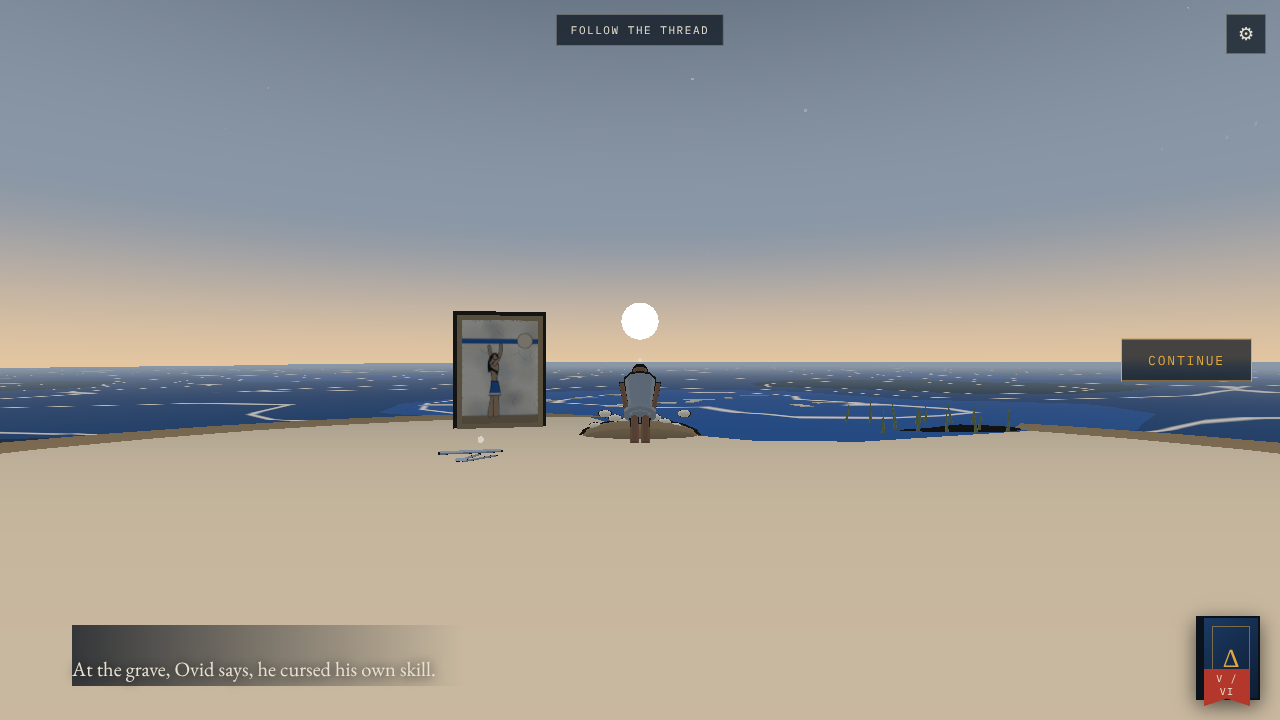
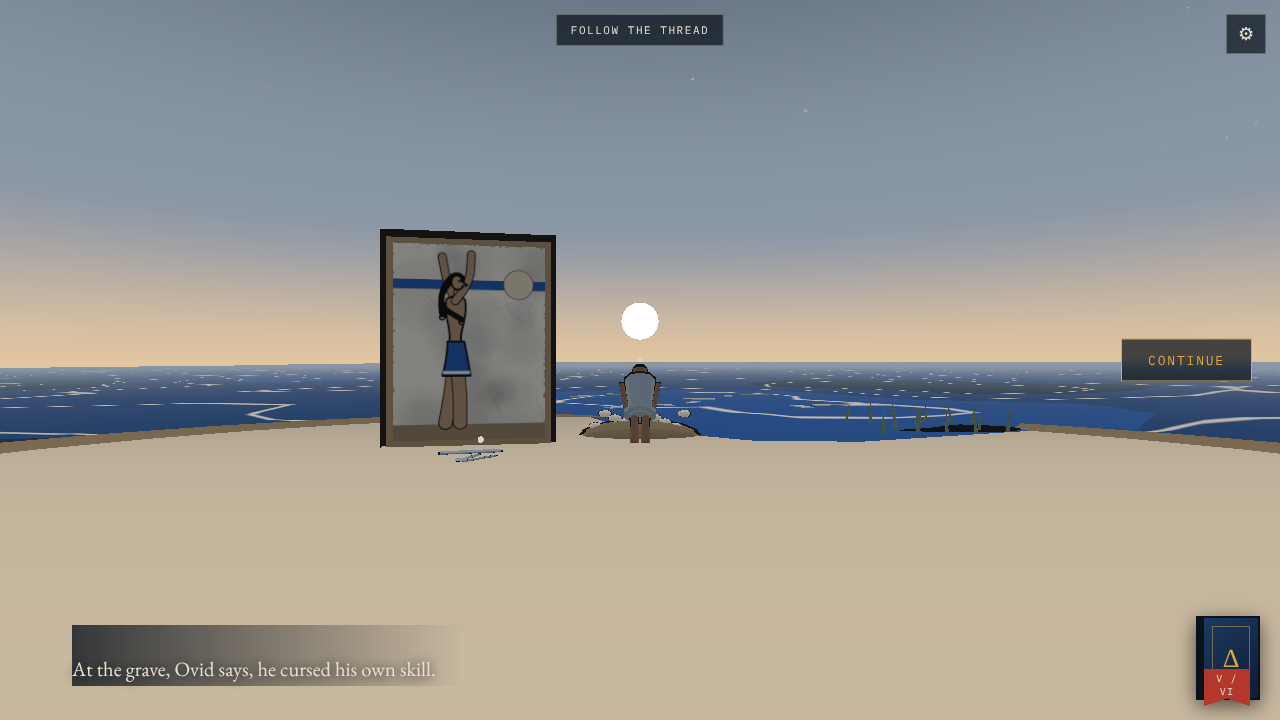
T17 fix + T18: dawn light from LOOK.dawn, stray background/fog removed, standing fresco slab (carry then raise)
Claude-Session: https://claude.ai/code/session_01HgZGDSDqA1vYXDUdhqfGPt

Changed region(s): [[0.2812, 0.3056, 0.4375, 0.6417], [0.625, 0.55, 0.6562, 0.5806], [0.5312, 0.55, 0.5625, 0.5806]]

diff --git a/src/chambers/PartridgeChamber.tsx b/src/chambers/PartridgeChamber.tsx
@@ -5,6 +5,7 @@ import { sfx } from '../audio/sounds';
 import { COL, GLOW, GRAD, LOOK, Prim } from '../experience/shared/look';
 import { Partridge, Person } from '../experience/shared/figures';
 import { Sea } from '../experience/shared/sea';
+import { Fresco, figure, type Paint } from '../world/Fresco';
 import { Hotspot } from '../world/interact';
 import { useStore } from '../store';
 import type { ChamberProps } from '../world/chambers';
@@ -15,6 +16,21 @@ const SEA_Y = 0.1, SAND_Y = 0.15;
 const FEATHERS = Array.from({ length: 14 }, (_, i) => [-6 + i * 0.9 + (i % 3) * 0.3, -1.5 - ((i * 7) % 6) * 1.2, i * 1.7] as const);
 const GRASS = Array.from({ length: 14 }, (_, i) => [5 + (i % 7) * 0.45 - 1.4, ((i * 5) % 4) * 0.2 - 1.2 + (i > 6 ? 1.5 : 0)] as const);
 const STONES = Array.from({ length: 10 }, (_, i) => [(i - 4.5) * 0.19, ((i * 3) % 4) * 0.08 - 0.12, 0.05 + (i % 3) * 0.04] as const);
+// The one fresco outdoors: a father carries his son's body; later the same father, arms raised.
+const slabPaint = (pose: 'carry' | 'raise'): Paint => (g, w, h) => {
+  const F = LOOK.fresco, u = h / 100, fx = w * 0.4, fy = h * 0.92;
+  g.fillStyle = F.blue; g.fillRect(0, h * 0.18, w, h * 0.05); // sea line
+  g.fillStyle = F.earth; g.fillRect(0, fy, w, h - fy);
+  g.fillStyle = F.skinPale; g.beginPath(); g.arc(w * 0.82, h * 0.2, w * 0.1, 0, 6.28); g.fill(); g.strokeStyle = F.line; g.lineWidth = 3; g.stroke(); // rising sun
+  figure(g, { x: fx, y: fy, h: 80 * u, facing: 1, pose, fill: F.skin });
+  if (pose !== 'carry') return;
+  const bx = fx + 9 * u, by = fy - 52 * u; // the son lies across his arms, head to the left, feet hanging
+  g.save(); g.translate(bx, by); g.fillStyle = F.skinPale; g.strokeStyle = F.line; g.lineWidth = 3;
+  g.beginPath(); g.ellipse(0, 0, 17 * u, 3.8 * u, -0.08, 0, 6.28); g.fill(); g.stroke();
+  g.beginPath(); g.ellipse(-19 * u, 1.5 * u, 3.4 * u, 3 * u, 0, 0, 6.28); g.fill(); g.stroke();
+  g.beginPath(); g.moveTo(15 * u, 1 * u); g.lineTo(26 * u, 6 * u); g.lineWidth = 6; g.stroke(); g.strokeStyle = F.skinPale; g.lineWidth = 3.5; g.stroke();
+  g.restore();
+};
 const use = () => useStore.getState().advance();
 
 export default function PartridgeChamber({ step, state }: ChamberProps) {
@@ -22,6 +38,7 @@ export default function PartridgeChamber({ step, state }: ChamberProps) {
   const feathers = useRef<THREE.Group>(null), mound = useRef<THREE.Group>(null), stones = useRef<THREE.Group>(null);
   const man = useRef<THREE.Group>(null), pop = useRef<THREE.Group>(null), bow = useRef<THREE.Group>(null), bird = useRef<THREE.Group>(null);
   const sun = useRef<THREE.Mesh>(null), key = useRef<THREE.DirectionalLight>(null);
+  const aim = useMemo(() => new THREE.Object3D(), []); // the key aims at the chamber, not at the world origin
   const a = useRef({ bird: 0, walk: 0, mound: 0, stones: 0, bow: 0, dawn: 0 }).current;
   const glow = useMemo(() => new THREE.MeshBasicMaterial({ color: GLOW.clone(), toneMapped: false }), []);
   const dim = useMemo(() => new THREE.Color(COL.dim), []);
@@ -50,16 +67,15 @@ export default function PartridgeChamber({ step, state }: ChamberProps) {
     if (bird.current) bird.current.userData.flap = s >= 3 ? 1 : 0; // beats its wings, never rises
     glow.color.copy(GLOW).lerp(dim, THREE.MathUtils.smoothstep(a.stones, 0.1, 0.9));
     if (sun.current) sun.current.position.y = 2 + a.dawn * 20;
-    if (key.current) key.current.intensity = 1 + a.dawn * 2.2;
+    if (key.current) key.current.intensity = LOOK.dawn.key.min + LOOK.dawn.key.range * a.dawn;
   });
 
   if (state === 'ahead') return <></>; // World mounts neighbours early; keep the dawn fog out of the wings tower
   return (
     <>
-      <color attach="background" args={[LOOK.sky.dawn[1]]} />
-      <fogExp2 attach="fog" args={[LOOK.sky.dawn[1], 0.012]} />
-      <directionalLight ref={key} position={[0, 6, -40]} color={LOOK.fresco.plaster} intensity={0.6} />
-      <hemisphereLight args={[LOOK.sky.dawn[2], LOOK.fresco.earth, 1.3]} />
+      <primitive object={aim} />
+      <directionalLight ref={key} target={aim} position={[0, 6, -40]} color={LOOK.dawn.key.color} intensity={LOOK.dawn.key.min} />
+      <hemisphereLight args={[LOOK.dawn.hemi.sky, LOOK.dawn.hemi.ground, LOOK.dawn.hemi.intensity]} />
       <mesh ref={sun} position={[0, 2, -150]} frustumCulled={false}>
         <sphereGeometry args={[5, 16, 12]} /><meshBasicMaterial color={new THREE.Color(LOOK.fresco.plaster).multiplyScalar(2)} toneMapped={false} fog={false} />
       </mesh>
@@ -71,6 +87,11 @@ export default function PartridgeChamber({ step, state }: ChamberProps) {
       <mesh rotation-x={-Math.PI / 2} position={[0, SAND_Y + 0.005, 10]} scale={[1.15, 1, 1]}>
         <ringGeometry args={[9, 10.5, 36]} /><meshToonMaterial color={LOOK.fresco.earth} gradientMap={GRAD} />
       </mesh>
+      {/* the slab: faces the spawn point */}
+      <group position={[-2.9, SAND_Y, 6.3]} rotation-y={0.2}>
+        <Prim shape="box" args={[2.7, 3.5, 0.2]} pos={[0, 1.75, 0]} color={LOOK.fresco.earth} />
+        {step >= 1 && <Fresco paint={slabPaint(step >= 2 ? 'raise' : 'carry')} size={[2.5, 3.3]} pos={[0, 1.75, 0.11]} border="none" version={step >= 2 ? 1 : 0} />}
+      </group>
       <group ref={feathers}>
         {FEATHERS.map(([x, z, r], i) => (
           <mesh key={i} position={[x, SEA_Y, z]} rotation={[0, r, 0]} scale={[1.1, 0.03, 0.28]}>
